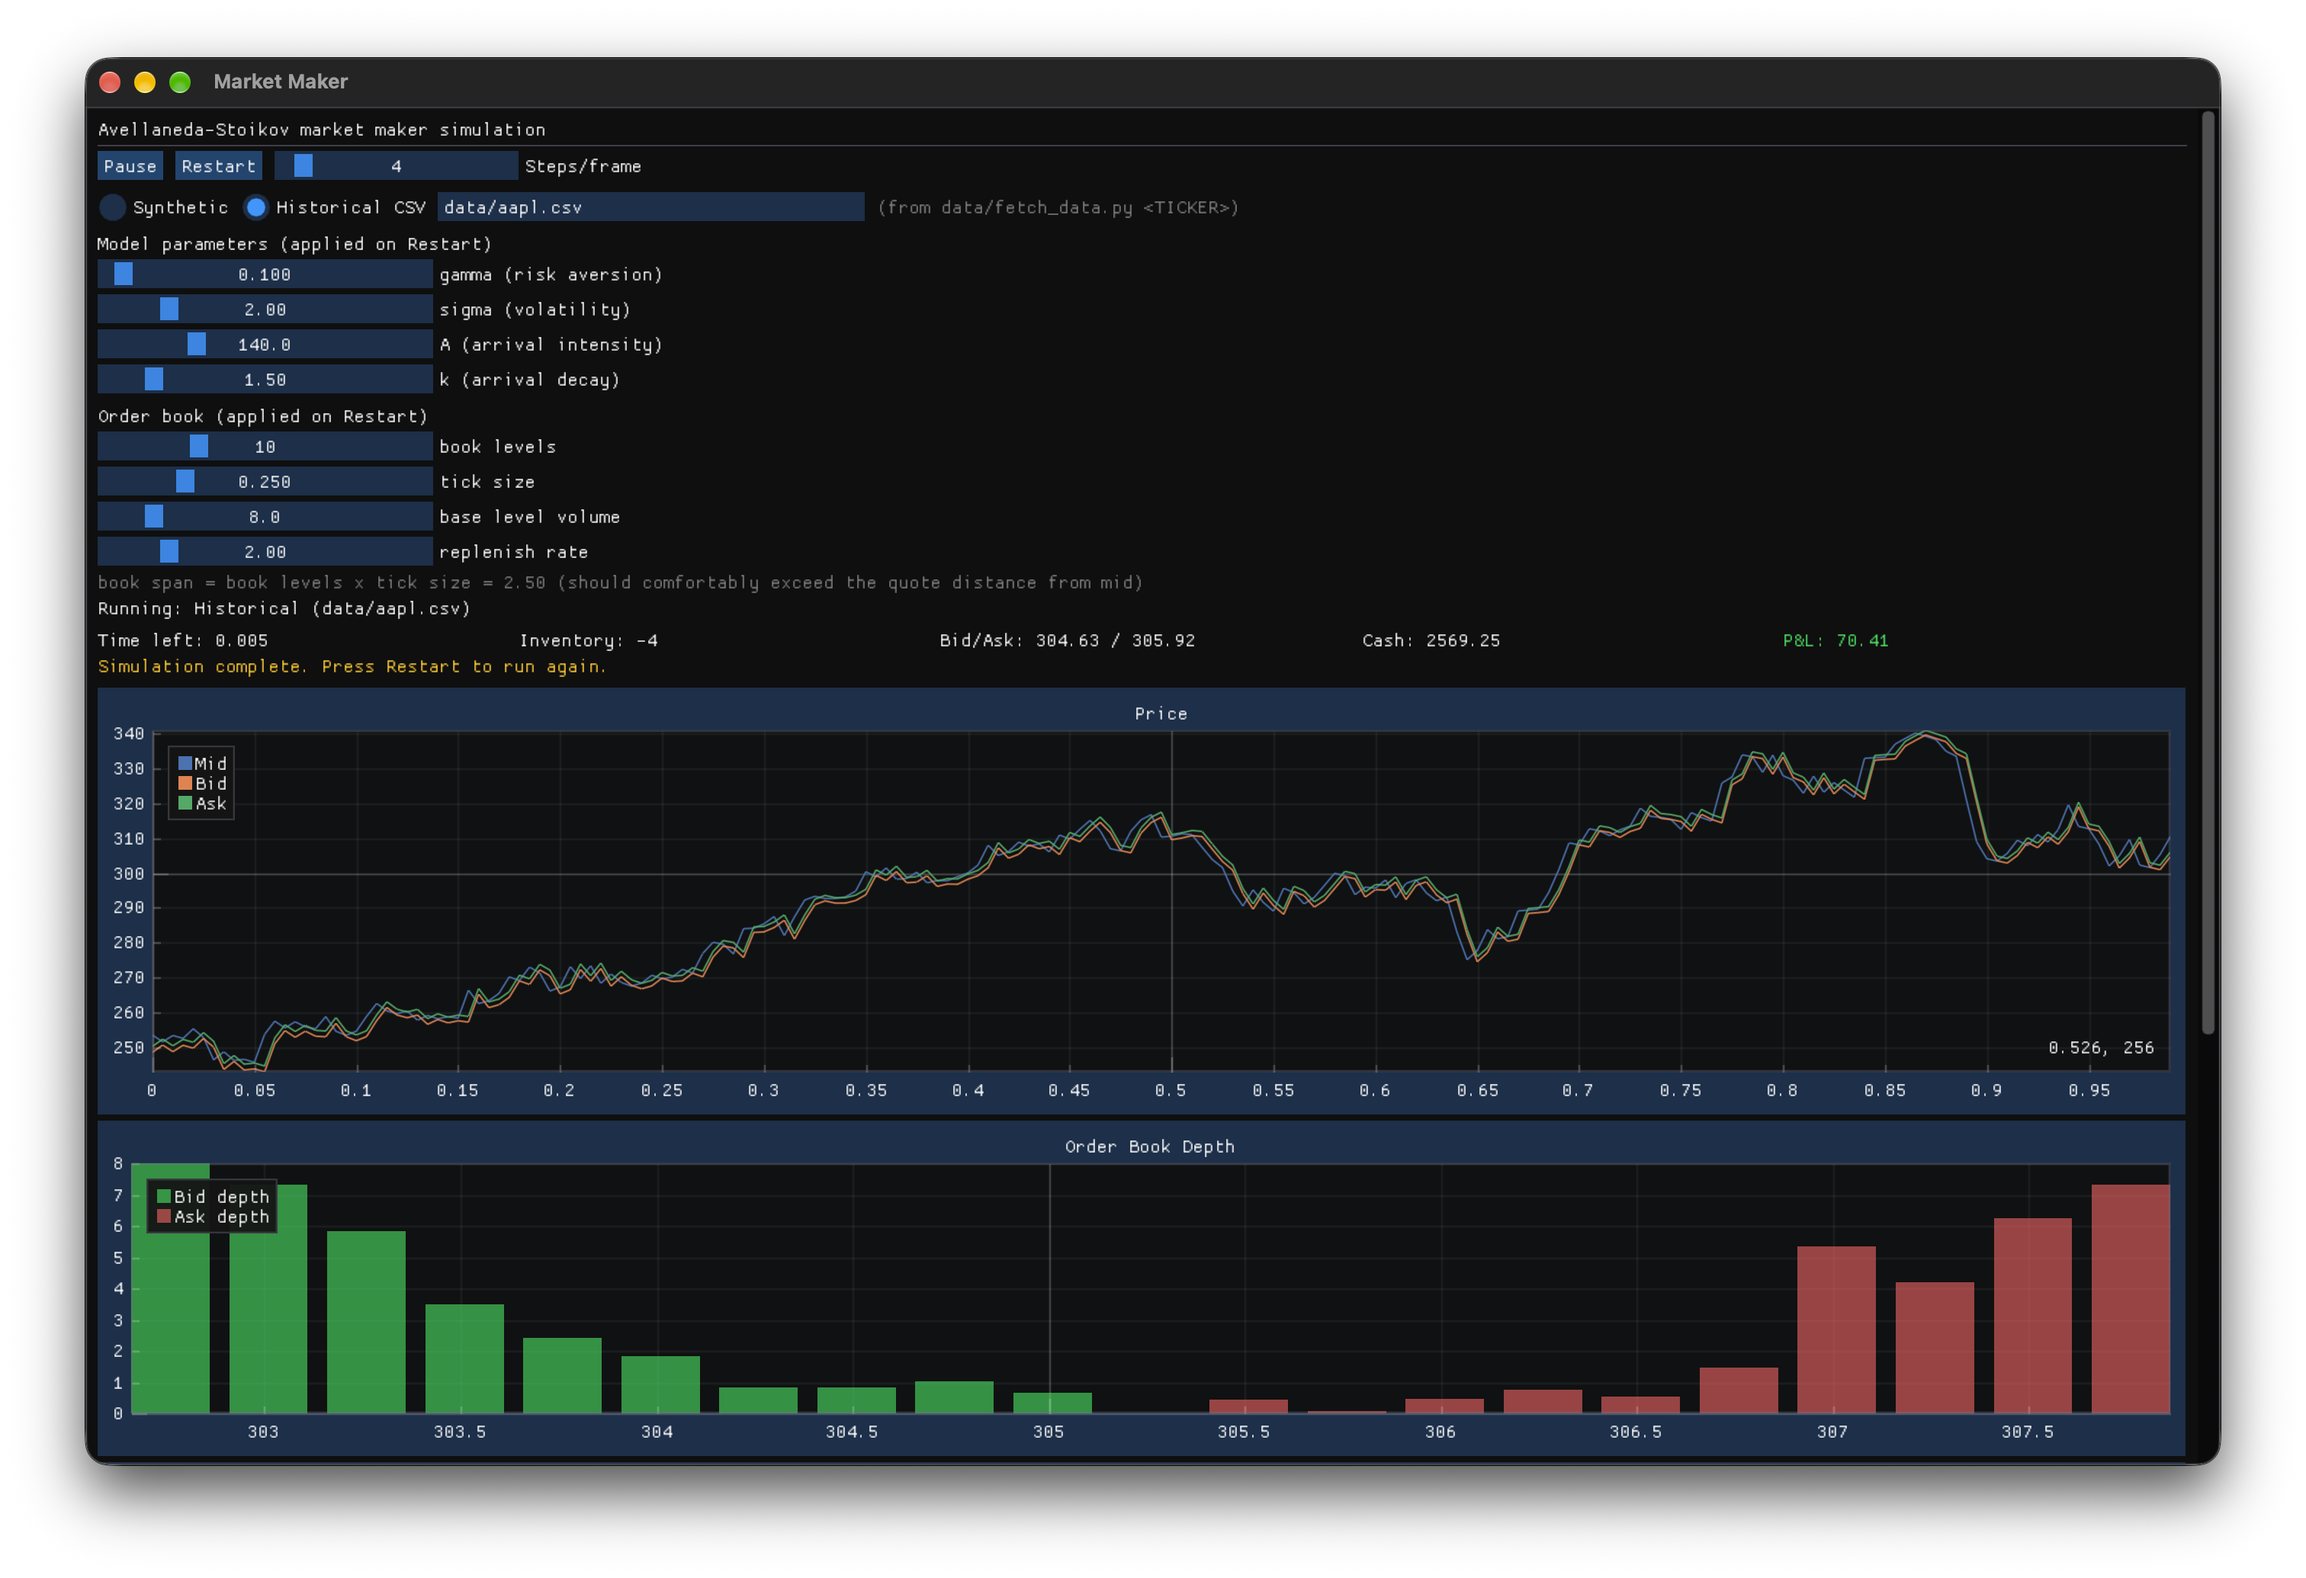
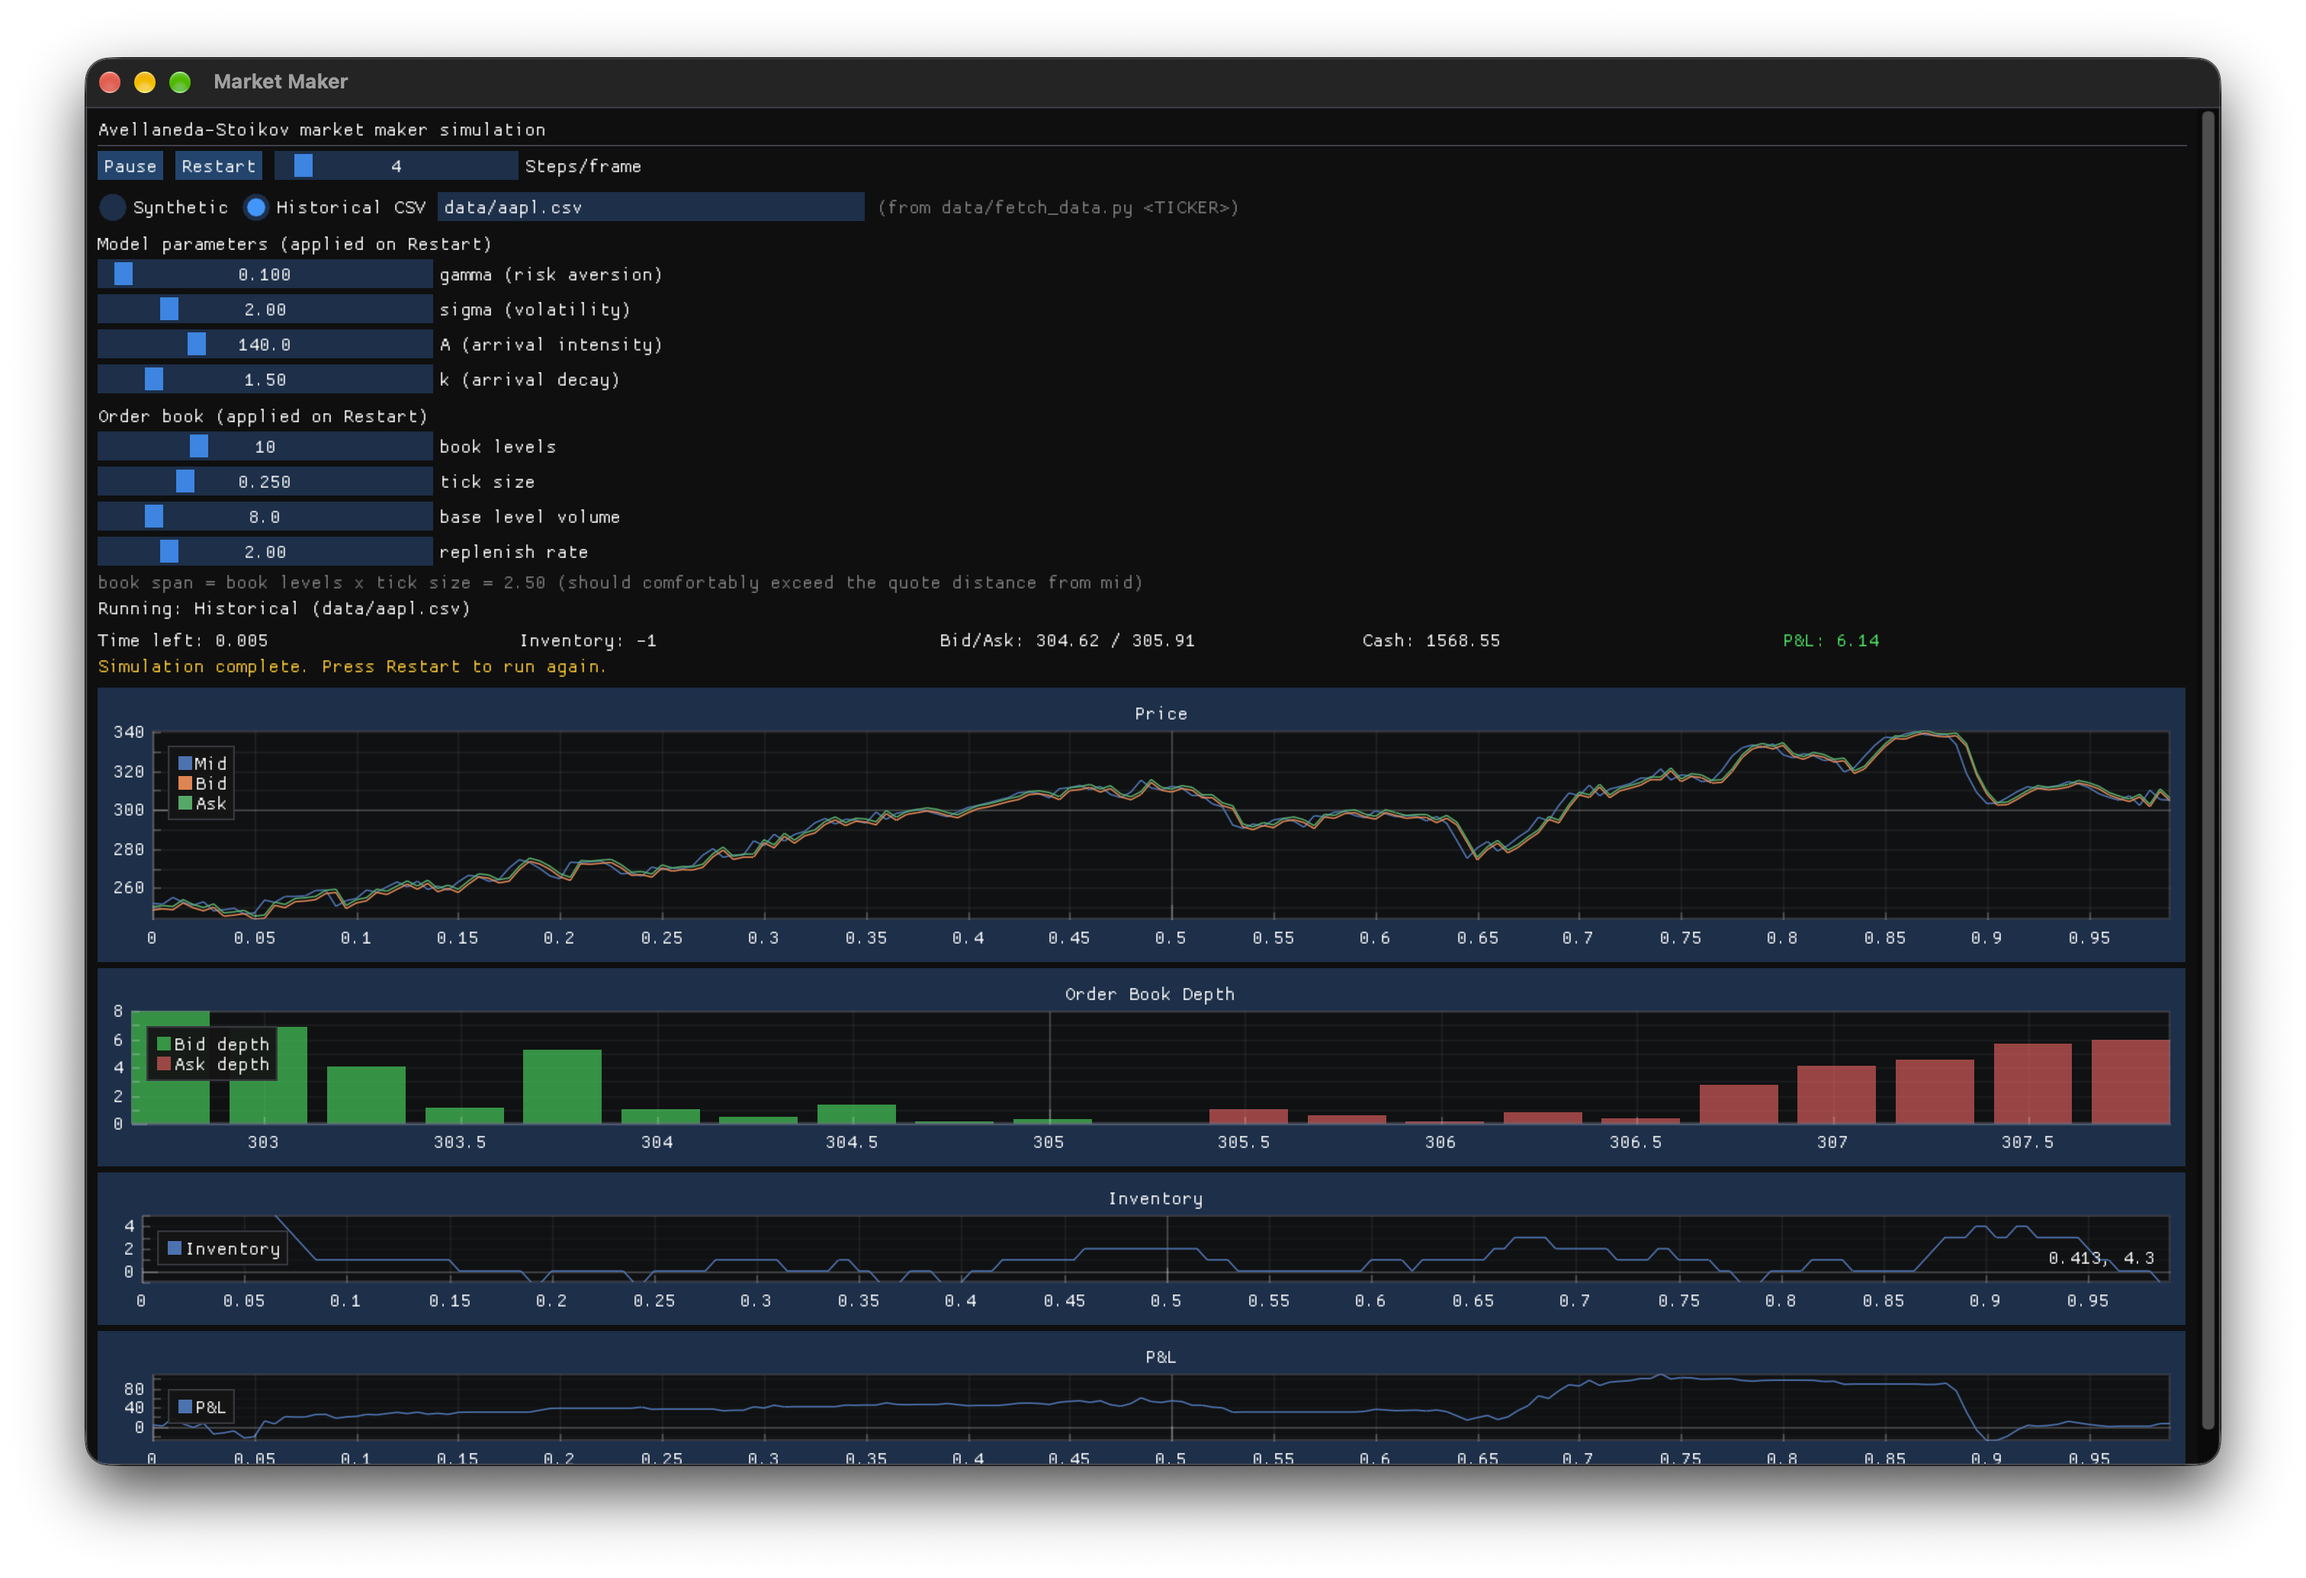
Shrink native GUI plot heights so all four charts fit without scrolling
Price/Depth/Inventory/P&L together needed ~900pt at their original
sizes, more than fits under the header on a 1400x900 window on a
1470x956 screen (already near the display's max). Shrunk each plot
(280->180, 220->130, 200->100, 200->100) so the whole dashboard is
visible at a glance, and updated the README screenshot to show all
four charts instead of just Price and Depth.

Changed region(s): [[0.0311, 0.4638, 0.9636, 0.9275], [0.0311, 0.4638, 0.0622, 0.4947]]

diff --git a/gui_native/main.cpp b/gui_native/main.cpp
@@ -271,7 +271,7 @@ int main(int argc, char **argv)
 
     ImGui::Spacing();
 
-    if (ImPlot::BeginPlot("Price", ImVec2(-1, 280)))
+    if (ImPlot::BeginPlot("Price", ImVec2(-1, 180)))
     {
       // History keeps growing every tick; without this the axes auto-fit
       // once on this plot's first (nearly empty) frame and then stay
@@ -283,7 +283,7 @@ int main(int argc, char **argv)
       ImPlot::EndPlot();
     }
 
-    if (ImPlot::BeginPlot("Order Book Depth", ImVec2(-1, 220)))
+    if (ImPlot::BeginPlot("Order Book Depth", ImVec2(-1, 130)))
     {
       // The book's price range shifts every tick as mid moves, so keep both
       // axes continuously auto-fit instead of only on this plot's first frame.
@@ -300,14 +300,14 @@ int main(int argc, char **argv)
       ImPlot::EndPlot();
     }
 
-    if (ImPlot::BeginPlot("Inventory", ImVec2(-1, 200)))
+    if (ImPlot::BeginPlot("Inventory", ImVec2(-1, 100)))
     {
       ImPlot::SetupAxes(nullptr, nullptr, ImPlotAxisFlags_AutoFit, ImPlotAxisFlags_AutoFit);
       ImPlot::PlotLine("Inventory", history.t.data(), history.inventory.data(), static_cast<int>(history.t.size()));
       ImPlot::EndPlot();
     }
 
-    if (ImPlot::BeginPlot("P&L", ImVec2(-1, 200)))
+    if (ImPlot::BeginPlot("P&L", ImVec2(-1, 100)))
     {
       ImPlot::SetupAxes(nullptr, nullptr, ImPlotAxisFlags_AutoFit, ImPlotAxisFlags_AutoFit);
       ImPlot::PlotLine("P&L", history.t.data(), history.pnl.data(), static_cast<int>(history.t.size()));
